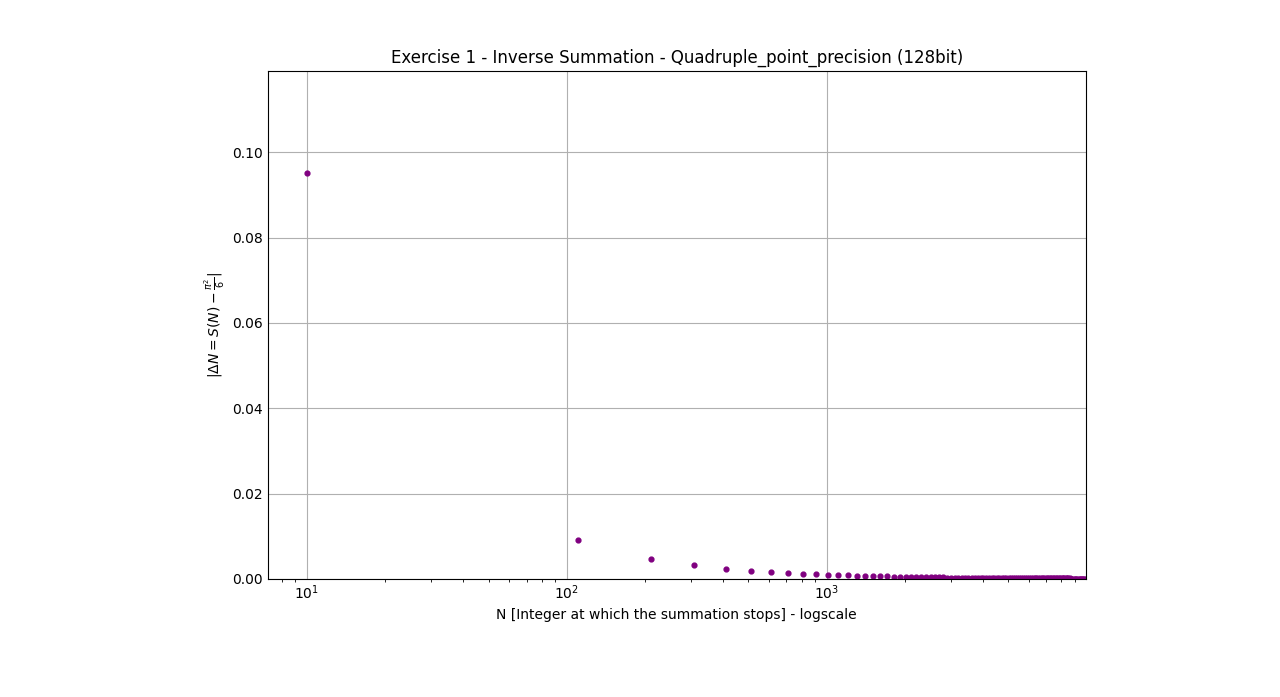
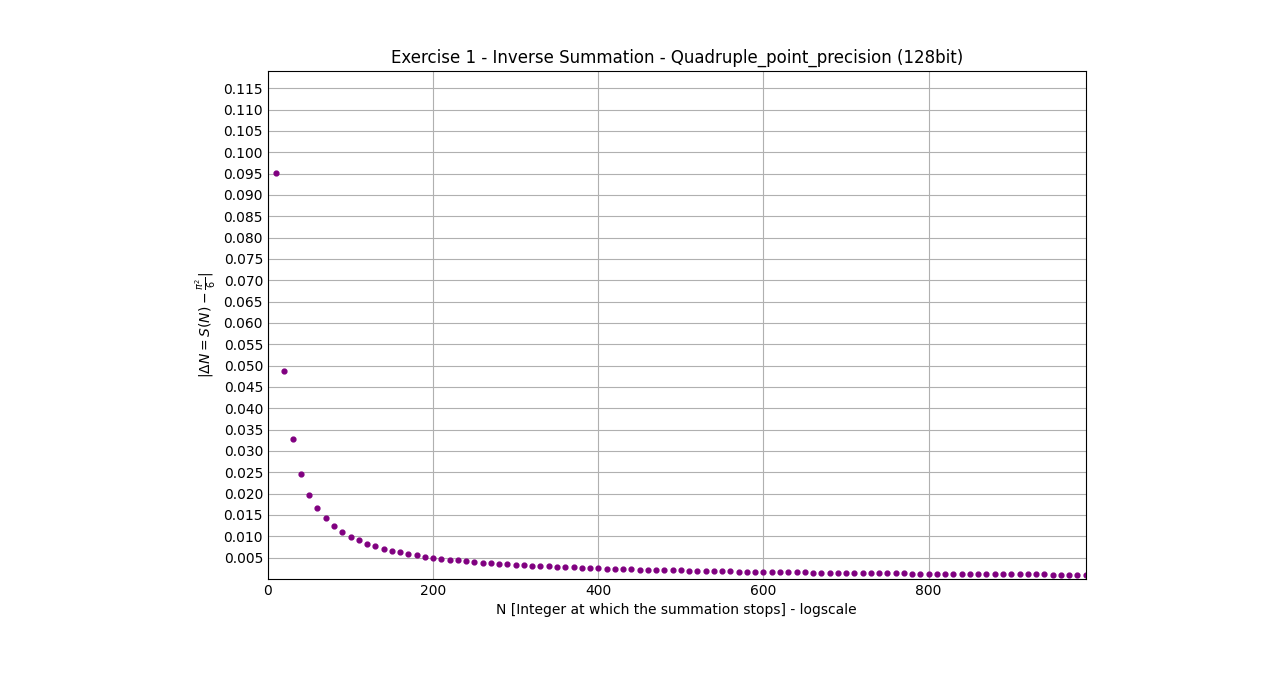
Fixing graphs' axis scale

Changed region(s): [[0.1562, 0.1205, 0.8438, 0.9039], [0.2188, 0.8436, 0.25, 0.8737]]

diff --git a/Exercise1/plot.py b/Exercise1/plot.py
@@ -7,12 +7,17 @@ x = np.genfromtxt("data.txt", delimiter=',',dtype=float, usecols=0)
 y = np.genfromtxt("data.txt", delimiter=',',dtype=float, usecols=2) 
 
 yver = np.zeros(len(y), dtype=float);
-
+ticks = np.zeros(950, dtype=float)
+counter = 0.005
+for i in range(len(ticks)):
+	ticks[i]+=counter
+	counter+=0.005
 for i in range(len(yver)):
 	yver[i] = np.absolute(y[i] - np.pi*np.pi/6.0)
 
 print(x)
 print(yver)
+
 
 
 plt.style.use('_mpl-gallery')
@@ -29,7 +34,8 @@ ax.scatter(x,yver, s=12, c="purple")
 ax.set_xlabel("N [Integer at which the summation stops] - logscale")
 ax.set_ylabel(r'$ | \Delta N = S(N) - \frac{\pi^2}{6} | $')
 ax.set_title("Exercise 1 - Inverse Summation - Quadruple_point_precision (128bit)")
-ax.set_xscale('log')
+ax.set_yticks(ticks)
+#ax.set_xscale('log')
 
 #ax.plot(x, yver)
 ax.set(xlim=(0, np.amax(x)), ylim=(0,np.amax(yver) + np.amax(yver)/4))
